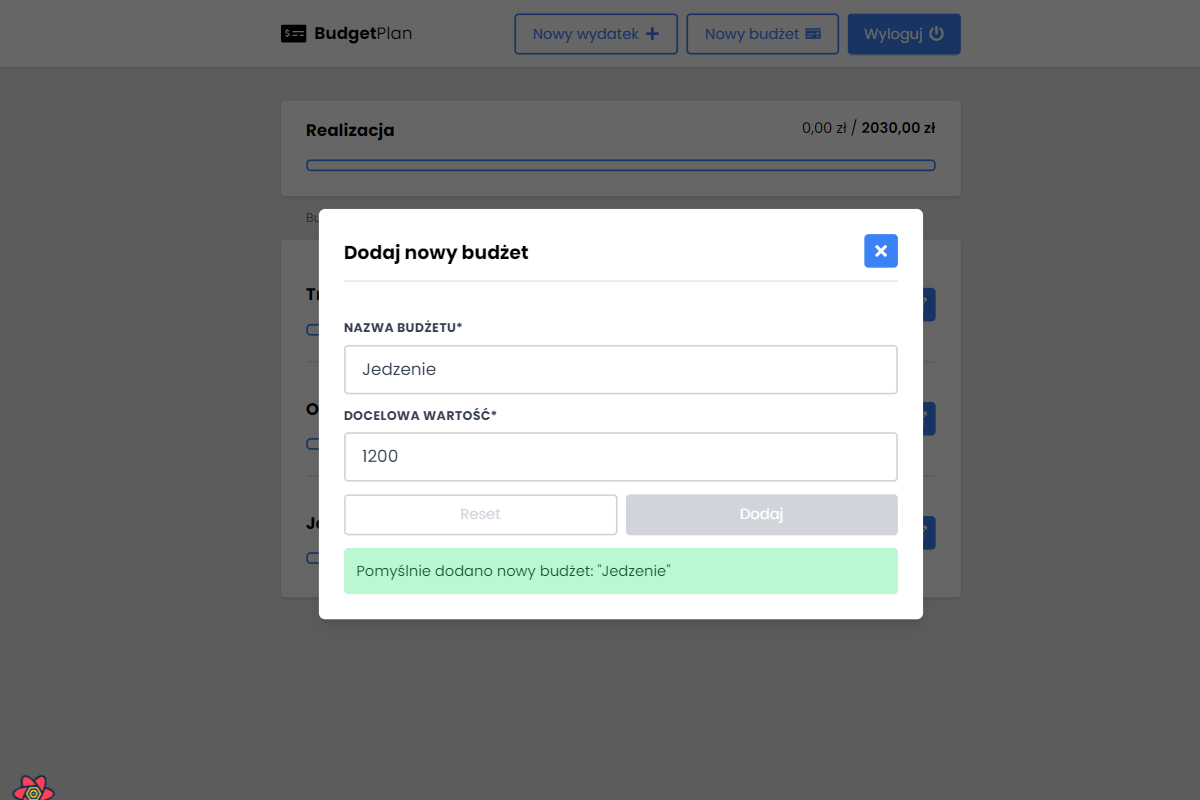
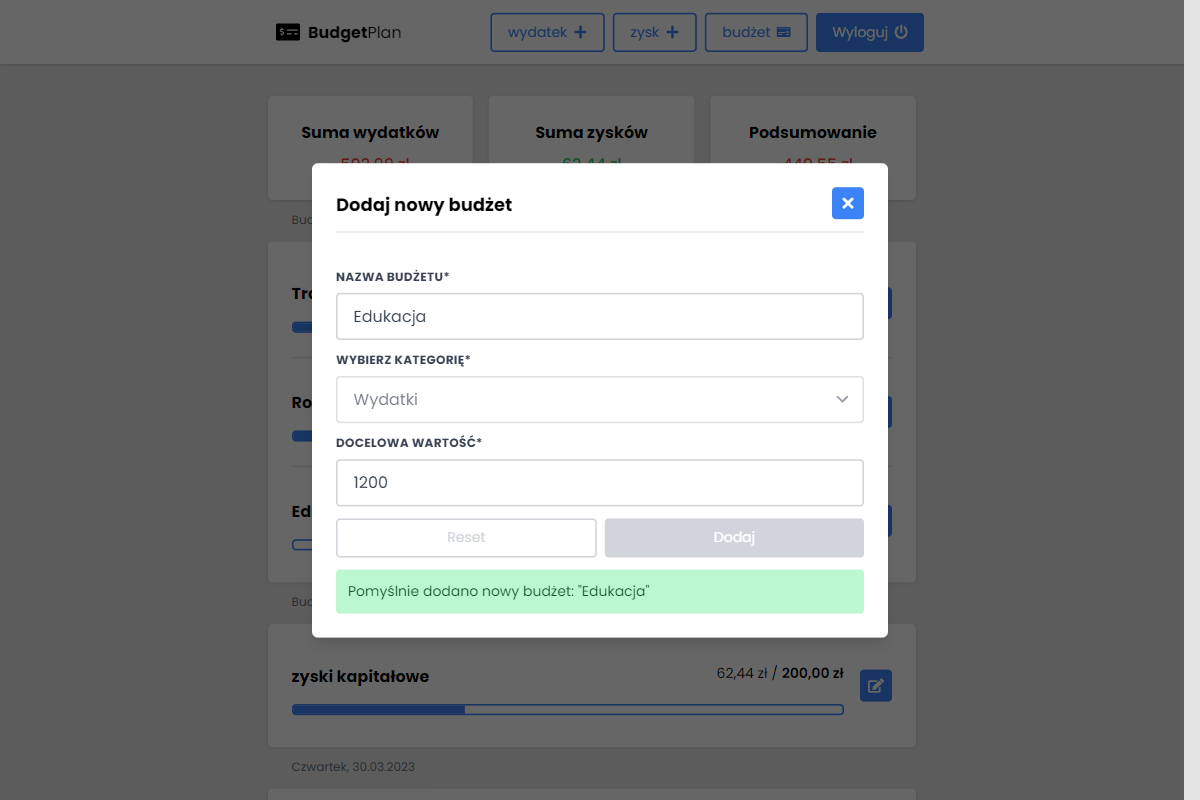
feat: new screenshots and fix select input label

diff --git a/src/components/organisms/BudgetModal/BudgetModal.tsx b/src/components/organisms/BudgetModal/BudgetModal.tsx
@@ -73,7 +73,7 @@ export const BudgetModal = () => {
           {budgetCategories && (
             <div className="w-full">
               <Select
-                label="Wybierz budżet"
+                label="Wybierz kategorię"
                 {...register("category")}
                 isError={Boolean(errors.category)}
                 errormessage={errors.category?.message || ""}
